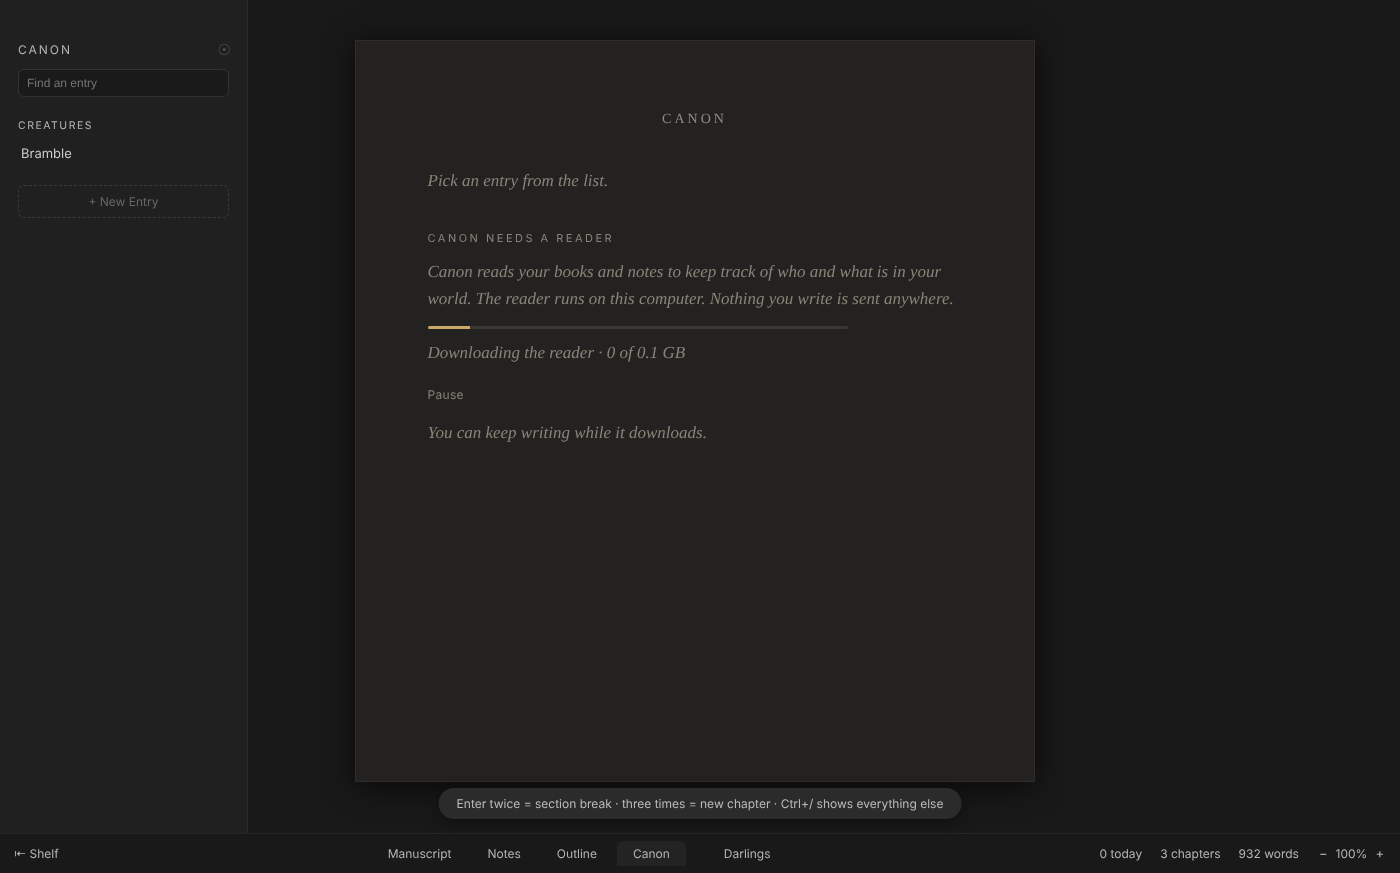
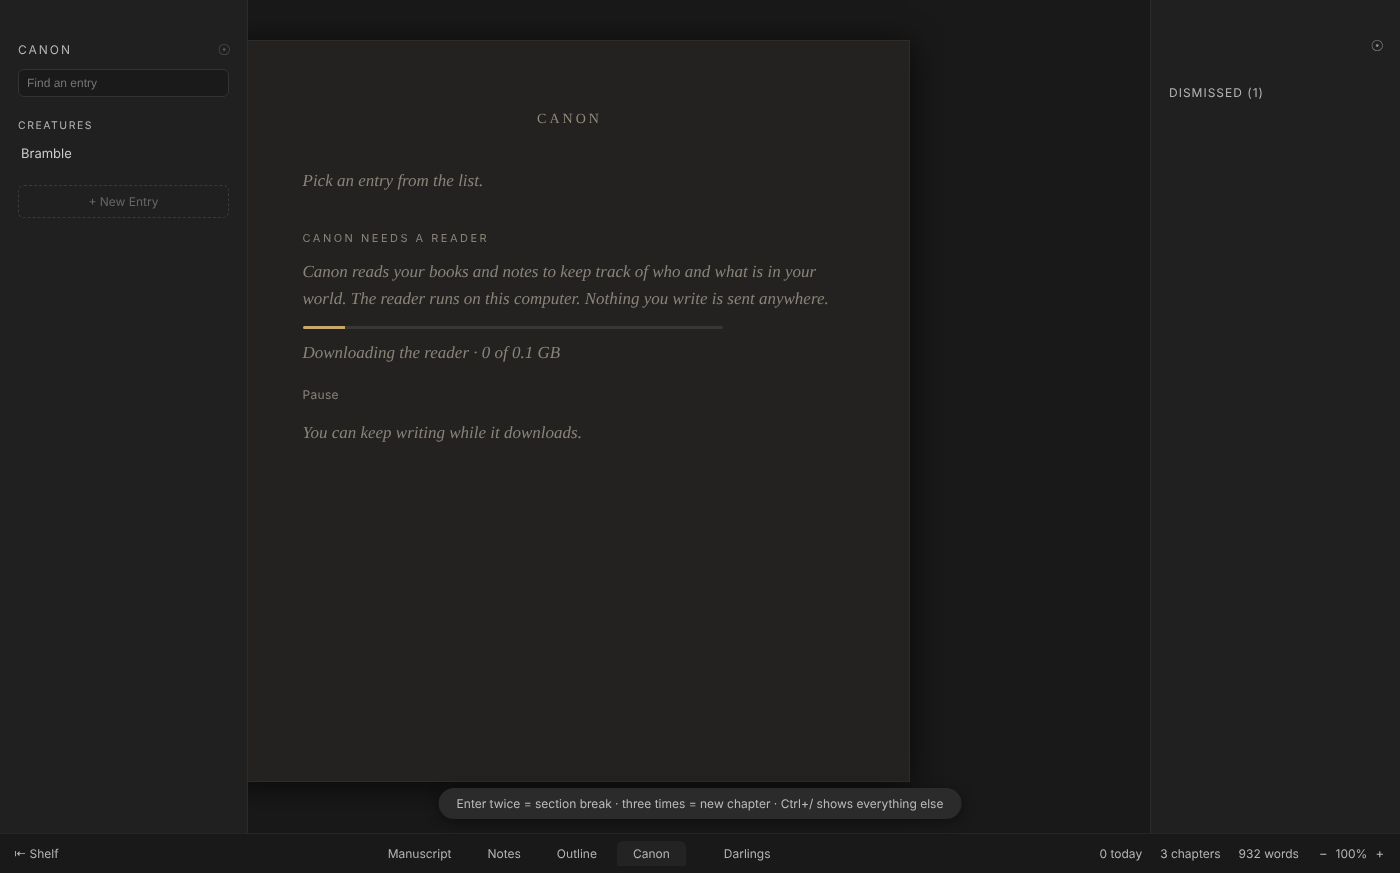
Canon M11: Merge Into…, the Dismissed list, Read Everything Again; screenshots refreshed
Claude-Session: https://claude.ai/code/session_01Uymcuup9eK8coCqa1NBqGH

diff --git a/app.js b/app.js
@@ -16377,8 +16377,13 @@ function fillCanonNav(box) {
       item.onclick = () => { canonShown = x.id; renderCanon(); };
       item.oncontextmenu = async (e) => {
         e.preventDefault();
-        const pick = await popMenu(e.clientX, e.clientY, [{ label: t('Set Aside Entry'), value: 'aside' }], { title: canonName(x) });
+        const others = canonSorted().filter((o) => o.data && o.id !== x.id);
+        const pick = await popMenu(e.clientX, e.clientY, [...(x.data && others.length ? [{ label: t('Merge Into…'), value: 'merge' }] : []),
+          { label: t('Set Aside Entry'), value: 'aside' }], { title: canonName(x) });
         if (pick === 'aside') canonSetAsideEntry(x);
+        if (pick !== 'merge') return;
+        const into = await popMenu(e.clientX, e.clientY, others.map((o) => ({ label: o.data.name, value: o.id })), { title: t('Merge {name} into…', { name: x.data.name }) });
+        if (into) canonMergeInto(x, into);
       };
       box.appendChild(item);
     }
@@ -16405,6 +16410,18 @@ async function canonNewEntry(from) {
   let id = Canon.slug(name);
   for (let n = 2; taken.has(id); n++) id = Canon.slug(name) + '-' + n;
   if (await canonEdit(id, () => Canon.newEntry(name, kind, id))) { canonShown = id; renderCanon(); }
+}
+
+// Merge Into…: the entry joins another (its names as aliases, its facts and
+// sources, its words), then its own file goes to Set Aside, kept whole
+async function canonMergeInto(x, intoId) {
+  const from = structuredClone(x.data);
+  if (!(await canonEdit(intoId, (d) => Canon.mergeEntry(d, from)))) return;
+  const id = await window.neo.canonSetAside(canon.id, x.id);
+  if (id) { canon.entries.delete(x.id); canon.setAside.push({ ...x, id }); }
+  canonShown = intoId;
+  renderCanon();
+  toast(t('{name} is merged into {into}. Its own file is in Set Aside.', { name: from.name, into: canonName(canon.entries.get(intoId)) }));
 }
 
 async function canonSetAsideEntry(x) {
@@ -16448,7 +16465,7 @@ let canonReading = false;
 let canonReadLine = '';
 let canonReadAt = null;   // the last progress: { phase, book, label, n, of, calls, left, ms }
 let canonPaused = false;
-async function canonReadShelfNow() {
+async function canonReadShelfNow(again = false) {
   if (!canon || canonReading) return;
   const id = canon.id;
   canonReading = true;
@@ -16458,7 +16475,7 @@ async function canonReadShelfNow() {
   renderCanon();
   let res;
   try {
-    res = await window.neo.canonReadShelf(id, {});
+    res = await window.neo.canonReadShelf(id, { again: again === true });
   } catch (err) {
     window.neo.logError('canon read: ' + (err && err.message || err));
     res = { error: 'failed' };
@@ -16653,6 +16670,37 @@ function canonNeedsList(box, el) {
   }
 }
 
+// Dismissed (n), at the foot of the Canon tab's pane: every Not a slip, with
+// its line; Restore lets that slip be found again
+let canonDismissedOpen = false;
+function canonDismissedList(box, el) {
+  const list = canon.notSlips;
+  if (!list.length) return;
+  const head = el('button', 'cs-dismissed-head', t('Dismissed ({n})', { n: list.length }));
+  head.setAttribute('aria-expanded', String(canonDismissedOpen));
+  head.onclick = () => { canonDismissedOpen = !canonDismissedOpen; canonSideUpdate(); };
+  box.appendChild(head);
+  if (!canonDismissedOpen) return;
+  for (const n of list) {
+    const item = el('div', 'cs-need');
+    const [entry, attr] = n.fact.split('/');
+    const rec = canon.entries.get(entry);
+    item.appendChild(el('strong', '', `${rec ? canonName(rec) : entry} · ${CANON_LABELS()[attr] || t('Spelling')}`));
+    item.appendChild(el('q', 'cs-src', n.text));
+    const row = el('div', 'cs-row');
+    const b = el('button', '', t('Restore'));
+    b.onclick = async () => {
+      try { await window.neo.canonUnNotSlip(canon.id, n); } catch { toast(t('NEO couldn’t save that')); return; }
+      canon.notSlips = canon.notSlips.filter((x) => x !== n);
+      canonSideUpdate();
+      toast(t('Canon will flag this line again on the next pass.'));
+    };
+    row.appendChild(b);
+    item.appendChild(row);
+    box.appendChild(item);
+  }
+}
+
 // the tab with no entry picked: what Canon is, and what it can do here
 function canonHome() {
   const box = document.createElement('div');
@@ -16672,8 +16720,16 @@ function canonHome() {
   const go = document.createElement('button');
   go.className = 'cn-read btn-gold';
   go.textContent = t('Read the Shelf');
-  go.onclick = canonReadShelfNow;
+  go.onclick = () => canonReadShelfNow();
   box.appendChild(go);
+  // after a reader upgrade: everything read again (the writer's facts stay)
+  if (Object.keys(canon.meta.read || {}).length) {
+    const again = document.createElement('button');
+    again.className = 'cn-btn cn-again';
+    again.textContent = t('Read Everything Again');
+    again.onclick = () => canonReadShelfNow(true);
+    box.appendChild(again);
+  }
   say(canonReadLine, 'cn-note cn-read-line');
   return box;
 }
@@ -17013,7 +17069,7 @@ function canonSideBox() {
 }
 function canonSideUpdate(tab = currentTab) {
   const mode = !CANON_ON || !book ? null : canonReview && (tab === 'manuscript' || tab === 'canon') ? 'review'
-    : canonPassOn && tab === 'manuscript' ? 'pass' : tab === 'canon' && canon && canon.reader.installed ? 'needs' : null;
+    : canonPassOn && tab === 'manuscript' ? 'pass' : tab === 'canon' && canon && (canon.reader.installed || canon.notSlips.length) ? 'needs' : null;
   const on = !!mode;
   const was = $('#editor-view').classList.contains('canon-side');
   $('#editor-view').classList.toggle('canon-side', on);
@@ -17023,7 +17079,7 @@ function canonSideUpdate(tab = currentTab) {
   const box = canonSideBox();
   box.innerHTML = '';
   const el = (tag, cls, text) => { const x = document.createElement(tag); if (cls) x.className = cls; if (text != null) x.textContent = text; return x; };
-  if (mode === 'needs') { canonNeedsList(box, el); return; }
+  if (mode === 'needs') { if (canon.reader.installed) canonNeedsList(box, el); canonDismissedList(box, el); return; }
   if (mode === 'review') { canonReviewList(box, el); return; }
   box.appendChild(el('div', 'cs-title', t('Continuity Pass')));
   const shown = canonShownSlips();

diff --git a/scripts/canon.e2e.js b/scripts/canon.e2e.js
@@ -412,6 +412,36 @@ test('Leave Out of Canon: a page right-clicked, a hollow ring, canon.json\'s out
   assert.equal(canonJson().read[`${NOTES}/p1`], undefined); // brought back: read again at the next pause
 });
 
+test('Merge Into…, the Dismissed list, and Read Everything Again', async () => {
+  await js(`openBook('${SALT}')`);
+  await until(`book && book.id === '${SALT}'`);
+  await js(`canonShown = null; switchTab('canon')`);
+  await until(`!!document.querySelector('#canon-view .cn-home')`);
+  await js(`canonEdit('the-grey', () => { const e = Canon.newEntry('The Grey', 'creature', 'the-grey'); e.words = 'Seen at the ford.\\n'; return e; })`);
+  await until(`[...document.querySelectorAll('#nav-list .cn-item')].some((x) => x.textContent === 'The Grey')`);
+  await js(`(() => { const i = [...document.querySelectorAll('#nav-list .cn-item')].find((x) => x.textContent === 'The Grey'); i.dispatchEvent(new MouseEvent('contextmenu', { bubbles: true, clientX: 120, clientY: 200 })); })()`);
+  await until(`!!document.querySelector('.pop-menu')`);
+  await menuPick('Merge Into…');
+  await until(`[...document.querySelectorAll('.pop-menu .pm-title')].some((x) => x.textContent === 'Merge The Grey into…')`);
+  await js(`[...document.querySelectorAll('.pop-menu button')].find((b) => b.textContent === 'Bramble').click()`);
+  await until(`canonShown === 'bramble' && !canon.entries.has('the-grey')`);
+  const bramble = fs.readFileSync(path.join(LIB, CANON, 'entries', 'bramble.md'), 'utf8');
+  assert.match(bramble, /^aliases: \[The Grey\]$/m);
+  assert.match(bramble, /## In my words\nSeen at the ford\.\n$/);
+  assert.ok(fs.existsSync(path.join(LIB, CANON, 'set-aside', 'the-grey.md')));
+  assert.ok(!fs.existsSync(path.join(LIB, CANON, 'entries', 'the-grey.md')));
+  // Dismissed (n) at the foot of the pane: each Not a slip, restorable
+  await js(`canonShown = null; renderCanon()`);
+  await until(`/Dismissed \\(2\\)/.test(document.querySelector('#canon-side .cs-dismissed-head')?.textContent)`);
+  await js(`document.querySelector('#canon-side .cs-dismissed-head').click()`);
+  await until(`document.querySelectorAll('#canon-side q.cs-src').length === 2`);
+  assert.match(await js(`document.querySelector('#canon-side').textContent`), /Ilsa Varr · Eyes.*Ilsa’s eyes looked almost brown in the firelight\./);
+  await js(`[...document.querySelectorAll('#canon-side .cs-row button')].filter((b) => b.textContent === 'Restore').at(-1).click()`);
+  await until(`/Dismissed \\(1\\)/.test(document.querySelector('#canon-side .cs-dismissed-head')?.textContent)`);
+  assert.equal(JSON.parse(fs.readFileSync(path.join(LIB, CANON, 'not-slips.json'), 'utf8')).length, 1);
+  assert.equal(await js(`!!document.querySelector('#canon-view .cn-again')`), true);
+});
+
 /* ---------- runner ---------- */
 
 async function main() {

diff --git a/canon.js b/canon.js
@@ -437,6 +437,27 @@
     if (f.as) had.as = f.as;
     if (!had.sources.some((x) => x.written)) had.sources.push({ written: true });
   }
+  // Merge Into: `from` (the grey, split from Bramble) joins `into`. Its name
+  // and aliases become aliases, its facts join (the same fact gains the
+  // sources; a value that differs from a firm one waits as disagreeing),
+  // its words follow the entry's own. The window then sets `from` aside.
+  function mergeEntry(into, from) {
+    const has = (a) => [into.name, ...into.aliases].some((x) => norm(x) === norm(a));
+    for (const a of [from.name, ...from.aliases]) if (!has(a)) into.aliases.push(a);
+    const same = (x, y) => x.attr === y.attr && norm(x.value) === norm(y.value) && x.label === y.label;
+    for (const f of from.facts) {
+      const had = into.facts.find((x) => same(x, f));
+      if (!had) {
+        const clash = ATTRS[f.attr] && ATTRS[f.attr].single && into.facts.some((x) => x.attr === f.attr && !same(x, f));
+        into.facts.push({ ...f, state: clash && f.state !== 'yours' ? 'disagree' : f.state });
+        continue;
+      }
+      if (f.state === 'yours' || (f.state === 'verified' && had.state !== 'yours')) had.state = f.state;
+      for (const src of f.sources) if (!had.sources.some((x) => x.written ? src.written : x.book === src.book && x.ch === src.ch && x.quote === src.quote)) had.sources.push(src);
+    }
+    into.setAside.push(...from.setAside);
+    if (from.words && from.words.trim()) into.words = (into.words ? into.words.replace(/\n*$/, '\n\n') : '') + from.words;
+  }
   function restoreFact(e, i) {
     const [f] = e.setAside.splice(i, 1);
     f.state = 'yours';
@@ -1140,7 +1161,7 @@
     textHash, norm, normMap, decode, sourceParas, speechSpans, sentences, mentionIndex, mentions, gateQuote,
     inSpans, nameParts, WORD, replaceInHtml,
     ATTRS, KINDS, STATES, SEX_WORDS, PRONOUNS, PRONOUN_SWAP, KIN_SWAP, COLOURS, SPECIES, KIN, slug, attrOf, labelOf, normaliseFact, handFact, factKey,
-    newEntry, parseEntry, serialiseEntry, confirmFact, setAsideFact, replaceFact, restoreFact, lexical,
+    newEntry, parseEntry, serialiseEntry, confirmFact, setAsideFact, replaceFact, mergeEntry, restoreFact, lexical,
     firmFact, editDistance, checkSources, createEngine, fakeReader
   };
 });

diff --git a/scripts/canon.test.js b/scripts/canon.test.js
@@ -356,3 +356,21 @@ test('an entry Canon can\'t read keeps its name: Read the Shelf makes no second 
   assert.deepEqual(Object.keys(files), ['bramble']);
   assert.equal(files.bramble, was);
 });
+
+test('Merge Into: names become aliases, the same fact gains sources, a different value waits, words follow', () => {
+  const into = Canon.parseEntry(BRAMBLE);
+  const from = Canon.newEntry('The Grey', 'creature');
+  from.aliases = ['the grey mare', 'Grey'];
+  from.facts.push(
+    { attr: 'species', value: 'horse', as: '', state: 'unverified', sources: [{ label: 'B, Ch 9', quote: 'the Grey, a horse', book: 'b', ch: 'c9' }] },
+    { attr: 'eyes', value: 'brown', as: '', state: 'unverified', sources: [{ label: 'B, Ch 9', quote: 'the Grey’s brown eyes', book: 'b', ch: 'c9' }] },
+    { attr: 'sex', value: 'male', as: '', state: 'verified', sources: [{ label: 'B, Ch 9', quote: 'x', book: 'b', ch: 'c9' }] });
+  from.words = 'Seen at the ford.\n';
+  Canon.mergeEntry(into, from);
+  assert.deepEqual(into.aliases, ['the grey mare', 'the grey', 'Grey']);
+  assert.equal(into.facts.find((f) => f.attr === 'species').sources.length, 2);
+  assert.equal(into.facts.find((f) => f.attr === 'eyes').state, 'unverified');
+  assert.equal(into.facts.find((f) => f.attr === 'sex' && f.value === 'male').state, 'disagree');
+  assert.match(into.words, /^Bad-tempered[\s\S]*verified\n\nSeen at the ford\.\n$/);
+  assert.equal(Canon.parseEntry(Canon.serialiseEntry(into)).error, undefined);
+});

diff --git a/styles.css b/styles.css
@@ -2250,3 +2250,7 @@ body.light .canon-pop button { color: #555; border-color: #ccc; }
 /* a page left out of Canon: a small hollow ring beside its title, on hover */
 .nav-item.cn-out .n-label::after { content: ''; display: inline-block; width: 6px; height: 6px; margin-left: 7px; border: 1.2px solid var(--muted); border-radius: 50%; vertical-align: 1px; opacity: 0; transition: opacity 0.12s; }
 .nav-item.cn-out:hover .n-label::after, .nav-item.cn-out:focus-within .n-label::after { opacity: 1; }
+#canon-side .cs-dismissed-head { display: block; margin: 16px 4px 4px; padding: 0; background: none; border: none; color: var(--muted); font-size: 12px; letter-spacing: 1px; text-transform: uppercase; }
+#canon-side .cs-dismissed-head:hover { color: var(--accent); }
+#canon-side q.cs-src { display: block; font-style: italic; }
+.cn-home .cn-again { margin: 0 0 12px 18px; }

diff --git a/docs/semantics/ARCHITECTURE.md b/docs/semantics/ARCHITECTURE.md
@@ -511,3 +511,5 @@ Each milestone ends with `npm test` green, `npm run lint` clean, and `node scrip
 37. **Marks follow the text (QA #6)**: Apply no longer drops a slip; a slip shows while its paragraph still hashes as when found, repainted on `input`, so ⌘Z brings it back.
 38. **M9 — change across the series.** Entry points: the popover's "Bramble is now a stallion…" (a confirmation in the popover) and Edit on a checked trait (Find Passages / Just Change the Fact). The entry changes first (`replaceFact`: old values to Set aside with their sources). `canon:passages` runs the pass's own checkers over the whole shelf (Notes and notebooks included, left-out pages not, dismissals ignored) for that entry and attribute, plus `ONLY` phrases (in foal, sired…) as `to: null`. The window applies: the open book through `execCommand` after `snapshotStructure` + `takeSnapshot('r')`; other books through `readChapter` → `replaceInHtml` (one text run only, else "Needs your words") → `writeChapter(…, expected)`, after `takeSnapshot('r', disk text, { meta })`. **A book's Notes is never swapped automatically**: snapshots don't hold `notes.html`, so those passages are listed as "Needs your words" with Open. Apply All Shown appears once an IntersectionObserver has seen the last item. A change undone with ⌘Z still reads "Changed" in the list (the list is a record of what was applied).
 39. **M10 — notebooks.** `isNotebook(meta)` beside `isScript`. Every page's kind reads as `unnumbered` (`chapterKind`), so NEO's own machinery gives titled, unnumbered pages; the body gets `no-cap`; the nav reads Pages / + Page with no outline notes; the Outline and Notes tabs are hidden; no word goal on the shelf menu and no progress bar; cover choices are gone (the tile is CSS only: `.nb-tile`, cloth, band, ribbon, paper label). `shelfBookData` leaves notebooks out of a bound book and an anthology; exports are text, Markdown, HTML and Word (`NOTEBOOK_FORMATS`, also enforced in `doExport` for the menu path). New Notebook is the third item on the shelf +'s right-click menu only (no File menu item). A page's right-click menu is Leave Out of Canon / Export Page… / Delete (no kinds). **Leave Out of Canon** writes `canon.json`'s `out` (the book never changes); the Notes tab label's right-click offers the same for a book's Notes. Bringing a page back drops its `read` hash (`canon:saveMeta`'s `unread`) so it is read again at the next pause. Pocket has no `canon*` bridge, so a notebook there is an ordinary book with unnumbered pages.
+40. **M11.** **Merge Into…** (an entry's right-click in the Canon list, then the entry to join): `mergeEntry` makes the name and aliases aliases, merges facts (sources joined; a value that differs from one already there waits as *disagree* unless it was the writer's), appends Set aside facts and *In my words*; the merged file then moves to `set-aside/` whole (P2 #24). **Dismissed (n)** sits at the foot of the Canon tab's right-hand pane (shown even without a reader), listing each Not a slip with its line and a Restore that removes it from `not-slips.json`. **Read Everything Again** appears under Read the Shelf once something has been read (`again: true`; the writer's facts stay, P1 #17). **Not built**: the popover's "4 more" list of every mention, and embeddings — no measurement here shows the known-entries list outgrowing the prompt (§8 note 5), so nomic stays out.
+41. **Lint and tests**: `npm test` 129 pass (one opt-in real-model test skipped); `npm run lint` reports the same 29 errors as before Canon; `canon.e2e.js` 17 checks (`CANON_SHOTS=1` to refresh docs/semantics/screens/).
